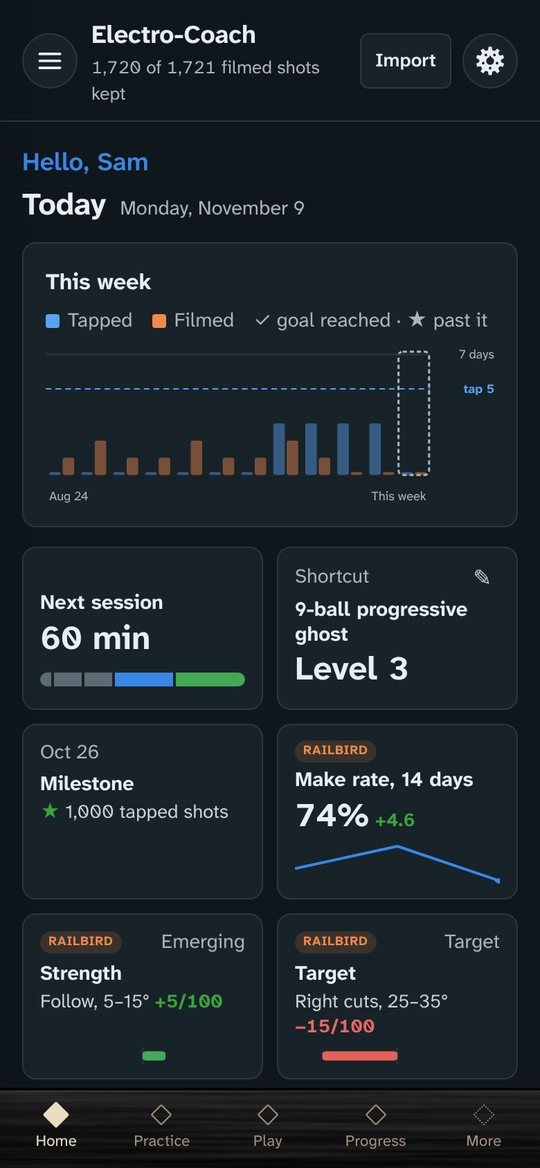
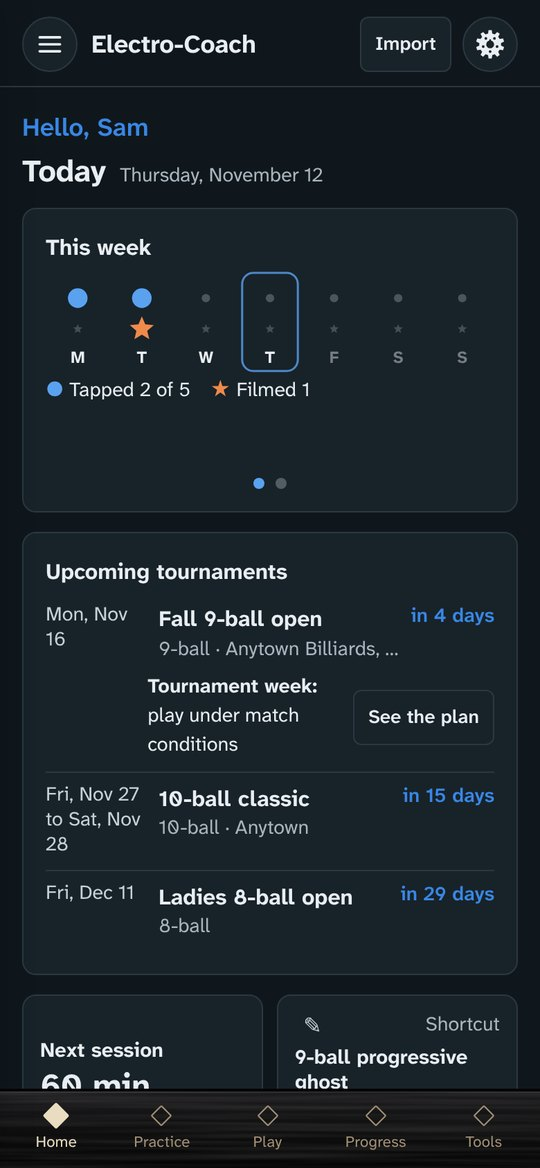
Website refresh: screenshots from 0.1.114 and the tournament week
Every screenshot is new, from 0.1.114 with demo data: Today with Upcoming tournaments, the plan, tapping, Progress grouped, Your stroke and its table, Drills, the tournament week, the heat map, the visualizer, the shot clock with the match score and the routine, and the share picture.

How it works gains a fifth step, Plan around your tournaments. The opening line, the drills and tools cards, the iPhone notes and the privacy card catch up with the app (Warm-up, the match score, levels on the evidence, the calendar on Android). The sitemap marks today's changes.

diff --git a/index.html b/index.html
@@ -20,12 +20,12 @@
 <meta property="og:image" content="https://electro-coach.com/images/og.jpg">
 <meta property="og:image:width" content="1200">
 <meta property="og:image:height" content="630">
-<meta property="og:image:alt" content="Electro-Coach: Practice with purpose. A drill’s tap screen and the Stroke check on a phone">
+<meta property="og:image:alt" content="Electro-Coach, a pool practice coach: the Warm-up plan for a tournament week and the Stroke check on a phone">
 <meta name="twitter:card" content="summary_large_image">
 <meta name="twitter:title" content="Electro-Coach: pool and billiards practice coach app">
 <meta name="twitter:description" content="Practice with purpose. Tap your shots; Electro-Coach reads your stroke, plans what to practice and shows whether you’re improving. Free, no account.">
 <meta name="twitter:image" content="https://electro-coach.com/images/og.jpg">
-<script type="application/ld+json">{"@context": "https://schema.org", "@type": "SoftwareApplication", "name": "Electro-Coach", "url": "https://electro-coach.com/", "applicationCategory": "SportsApplication", "operatingSystem": "Android, iOS (web app), Windows, macOS, Linux (web)", "description": "A pool and billiards practice coach: structured practice plans, drills you log with a tap, stroke feedback from drill results, a shot visualizer, a tournament shot clock, a pre-shot routine and progress tracking from Railbird shot data.", "image": "https://electro-coach.com/images/og.jpg", "screenshot": ["https://electro-coach.com/images/home.jpg", "https://electro-coach.com/images/tap.jpg", "https://electro-coach.com/images/stroke.jpg"], "offers": {"@type": "Offer", "price": "0", "priceCurrency": "USD"}, "author": {"@type": "Person", "name": "Lela Andrews"}, "downloadUrl": "https://github.com/lvandrews/Electro-Coach/releases/latest/download/electro-coach.apk", "featureList": ["Practice plans with block timers", "Pool drills logged with a tap", "Stroke feedback from drill results", "Shot visualizer: cut angle, ghost ball, contact point", "Progressive ghost run-out practice", "Tournament shot clock and straight pool scoring", "Pre-shot routine", "Progress, heat maps and shot model from Railbird data", "Practice journal"]}</script>
+<script type="application/ld+json">{"@context": "https://schema.org", "@type": "SoftwareApplication", "name": "Electro-Coach", "url": "https://electro-coach.com/", "applicationCategory": "SportsApplication", "operatingSystem": "Android, iOS (web app), Windows, macOS, Linux (web)", "description": "A pool and billiards practice coach: structured practice plans, drills you log with a tap, stroke feedback from drill results, a shot visualizer, a tournament shot clock, a pre-shot routine and progress tracking from Railbird shot data.", "image": "https://electro-coach.com/images/og.jpg", "screenshot": ["https://electro-coach.com/images/home.jpg", "https://electro-coach.com/images/tap.jpg", "https://electro-coach.com/images/stroke.jpg"], "offers": {"@type": "Offer", "price": "0", "priceCurrency": "USD"}, "author": {"@type": "Person", "name": "Lela Andrews"}, "downloadUrl": "https://github.com/lvandrews/Electro-Coach/releases/latest/download/electro-coach.apk", "featureList": ["Practice plans with block timers", "Pool drills logged with a tap", "Stroke feedback from drill results", "Shot visualizer: cut angle, ghost ball, contact point", "Progressive ghost run-out practice", "Tournament shot clock and straight pool scoring", "Pre-shot routine", "Progress, heat maps and shot model from Railbird data", "Practice journal", "Tournament calendar and tournament week", "Match score", "Warm-up"]}</script>
 <meta name="theme-color" content="#2c1d14">
 <link rel="icon" href="images/icon-192.png">
 <link rel="apple-touch-icon" href="images/apple-touch-icon.png">
@@ -50,7 +50,7 @@
     <div>
       <h1>Practice with purpose.</h1>
       <p class="tagline">A pool practice coach that keeps you honest.</p>
-      <p class="lede">Tap your shots as you practice. Electro-Coach reads your stroke from the results, tells you what to work on next and shows whether you’re improving. For every player, from beginner to expert.</p>
+      <p class="lede">Tap your shots as you practice. Electro-Coach reads your stroke from the results, tells you what to work on next, shows whether you’re improving and, in the Android app, plans your week around your tournaments. For every player, from beginner to expert.</p>
       <h2 class="start-h">Get started</h2>
       <ol class="start">
         <li>Download Electro-Coach for Android, iPhone or your computer.</li>
@@ -76,10 +76,11 @@
   <div class="wrap">
     <h2>How it works</h2>
     <div class="steps">
-      <div class="card step"><div class="ball b1"><span>1</span></div><h3>Tap as you play</h3><p>Each shot is one tap: made, missed left or right, what the cue ball did. It’s even easier than it sounds, and you never leave the table.</p><img src="images/tap.jpg" alt="A drill’s tap screen: 4 of 7 makes, with big buttons for where the cue ball went" width="540" height="1168" loading="lazy"></div>
-      <div class="card step"><div class="ball b2"><span>2</span></div><h3>Your stroke, checked</h3><p>Strong fundamentals win matches. Your taps add up: when misses lean one way, stop shots drift or draw dies at the rail, the Stroke check shows the pattern, how sure it is, the likely causes and a drill to work on it.</p><img src="images/stroke.jpg" alt="Stroke check: the cue ball gets scooped on draw shots, with the likely cause, the tip dropping through contact" width="540" height="1168" loading="lazy"></div>
+      <div class="card step"><div class="ball b1"><span>1</span></div><h3>Tap as you play</h3><p>Each shot is one tap: made, missed left or right, what the cue ball did. It’s even easier than it sounds, and you never leave the table.</p><img src="images/tap.jpg" alt="A drill’s tap screen: 5 of 7 makes, with big buttons for where the cue ball went" width="540" height="1168" loading="lazy"></div>
+      <div class="card step"><div class="ball b2"><span>2</span></div><h3>Your stroke, checked</h3><p>Strong fundamentals win matches. Your taps add up: when misses lean one way, stop shots drift or draw dies at the rail, the Stroke check shows the pattern, how sure it is, the likely causes and a drill to work on it. Your stroke as a table puts stop, follow and draw shots side by side.</p><img src="images/stroke.jpg" alt="Stroke check: the cue ball gets scooped on draw shots, with the likely cause, the tip dropping through contact" width="540" height="1168" loading="lazy"></div>
       <div class="card step"><div class="ball b3"><span>3</span></div><h3>A plan that fits your time</h3><p>Each 20–180 minute session has a warm-up, a stroke drill, a drill for the shots costing you the most and a game-like finish. It suggests drills that fill gaps in your data, so the picture keeps getting sharper.</p><img src="images/plan.jpg" alt="Practice plan: the next session, 60 minutes, with its warm-up, target and apply blocks" width="540" height="1168" loading="lazy"></div>
-      <div class="card step"><div class="ball b4"><span>4</span></div><h3>Am I improving?</h3><p>Your history over time, each point with a range that says how sure it is, so real progress shows and one bad night doesn’t fool you.</p><img src="images/progress.jpg" alt="Progress: tiles for your stroke, your results over time, and whether you’re improving" width="540" height="1168" loading="lazy"></div>
+      <div class="card step"><div class="ball b4"><span>4</span></div><h3>Am I improving?</h3><p>Your history over time, each point with a range that says how sure it is, so real progress shows and one bad night doesn’t fool you. Progress keeps what your taps show and what Railbird shows apart, with your practice time against your weekly goal and your drills’ levels.</p><img src="images/progress.jpg" alt="Progress: your stroke, then tiles from your taps and from Railbird" width="540" height="1168" loading="lazy"></div>
+      <div class="card step wide"><div class="ball b5"><span>5</span></div><h3>Plan around your tournaments</h3><p>Link the calendar that holds your pool events (Google, Outlook or Apple) and your tournaments show on Today, with the place and the game. From five days out, Warm-up has a plan that changes as the day gets closer: match conditions first, then sharpening, then your warm-up on the day. Afterwards, a one-minute debrief shapes the next one. In the Android app; your calendar link is only ever sent to your calendar’s own service.</p><div class="step-pair"><img src="images/home.jpg" alt="Today: the upcoming tournaments, the next one in 4 days with its tournament week" width="540" height="1168" loading="lazy"><img src="images/warmup.jpg" alt="Warm-up, four days before a 9-ball tournament: play under match conditions, with the ghost, Last Three, ten breaks and position work from last time" width="540" height="1168" loading="lazy"></div></div>
     </div>
 
     <div class="whytap">
@@ -100,11 +101,11 @@
   <div class="wrap">
     <h2>Practice with purpose</h2>
     <div class="grid">
-      <div class="card"><div class="ball b5"><span>5</span></div><h3>Progressive drills for every level</h3><p>Levels move up and down with your results, from beginner to expert. Every drill has a diagram and shows where to hit the cue ball.</p></div>
-      <div class="card"><div class="ball b6"><span>6</span></div><h3>Purposeful doesn’t mean boring</h3><p>Spend a few minutes a day reinforcing your stroke, then put it to work in game-like drills: the Progressive 9-ball ghost, the Progressive 8-ball ghost and 10-ball bowling. They track your break, where each rack ends and how often the money ball is the miss.</p></div>
-      <div class="card"><div class="ball b7"><span>7</span></div><h3>Statistics, not AI</h3><p>Every number is worked out on your phone from your own shots, the way a scientist would: each shot measured against its difficulty, and each result with a range that says how sure it is.</p></div>
-      <div class="card"><div class="ball b8"><span>8</span></div><h3>Your data stays on your device</h3><p>No account. What you enter stays on your device, and backups are files you keep. You own your phone: use it for good.</p></div>
-      <div class="card"><div class="ball b9"><span>9</span></div><h3>Even better with Railbird</h3><p>Add your Railbird shot data for heat maps, your best speeds and a shot-by-shot picture of your game. <a href="#railbird">More about Railbird</a></p></div>
+      <div class="card"><div class="ball b6"><span>6</span></div><h3>Progressive drills for every level</h3><p>Levels move up and down on the evidence of your results, so luck moves you less, from beginner to expert. Every drill has a diagram and shows where to hit the cue ball.</p></div>
+      <div class="card"><div class="ball b7"><span>7</span></div><h3>Purposeful doesn’t mean boring</h3><p>Spend a few minutes a day reinforcing your stroke, then put it to work in game-like drills: the Progressive 9-ball ghost, the Progressive 8-ball ghost, 10-ball bowling and Last Three. The ghosts and bowling track your break, where each rack ends and how often the money ball is the miss. With a tournament in your calendar (Android app), the ghost switches to its game: 8-ball, or 9-ball for 9- and 10-ball.</p></div>
+      <div class="card"><div class="ball b8"><span>8</span></div><h3>Statistics, not AI</h3><p>Every number is worked out on your phone from your own shots, the way a scientist would: each shot measured against its difficulty, and each result with a range that says how sure it is.</p></div>
+      <div class="card"><div class="ball b9"><span>9</span></div><h3>Your data stays on your device</h3><p>No account. What you enter stays on your device, and backups are files you keep. You own your phone: use it for good.</p></div>
+      <div class="card"><div class="ball b10"><span>10</span></div><h3>Even better with Railbird</h3><p>Add your Railbird shot data for heat maps, your best speeds and a shot-by-shot picture of your game. <a href="#railbird">More about Railbird</a></p></div>
     </div>
   </div>
 </section>
@@ -115,7 +116,8 @@
     <div class="grid tools">
       <div class="card"><h3>Practice journal</h3><p>Notes on practice, equipment and competition days, lined up with your numbers. Share a report with your coach, or a summary with an AI coach.</p></div>
       <div class="card"><h3>Pre-shot routine</h3><p>Written your way, fully editable and one tap away, with a home-screen widget on Android.</p></div>
-      <div class="card"><h3>Shot clock</h3><p>Competition quality, with extensions.</p></div>
+      <div class="card"><h3>Shot clock</h3><p>Competition quality, with extensions and the match score, and a match you can send to a friend’s Electro-Coach.</p></div>
+      <div class="card"><h3>Warm-up</h3><p>5, 10 or 15 minutes before a match, with a list you can make your own.</p></div>
       <div class="card"><h3>Straight pool scoring</h3><p>Under WPA or CSI rules.</p></div>
       <div class="card"><h3>Shot visualizer</h3><p>See a cut from behind the cue ball, with the fractional overlap, or lay it out from above with the ghost ball and the contact-point lines.</p></div>
     </div>
@@ -149,17 +151,19 @@
   <div class="wrap">
     <h2>A look inside</h2>
     <div class="gallery">
-      <figure><img src="images/home.jpg" alt="Home: this week’s practice, the next session and your strengths and targets" loading="lazy"><figcaption>Home</figcaption></figure>
+      <figure><img src="images/home.jpg" alt="Today: this week’s practice and your upcoming tournaments, with the tournament week" loading="lazy"><figcaption>Today</figcaption></figure>
       <figure><img src="images/plan.jpg" alt="Practice plan: the next session up front with its length and blocks" loading="lazy"><figcaption>Practice plan</figcaption></figure>
       <figure><img src="images/tap.jpg" alt="A drill’s tap screen, one tap a shot" loading="lazy"><figcaption>Tapping a drill</figcaption></figure>
       <figure><img src="images/setdone.jpg" alt="A finished set: makes, quality and where the cue ball went" loading="lazy"><figcaption>Set complete</figcaption></figure>
       <figure><img src="images/ghost.jpg" alt="Progressive 9-ball ghost: tap the balls that went in on the break" loading="lazy"><figcaption>Progressive ghost</figcaption></figure>
-      <figure><img src="images/progress.jpg" alt="Progress" loading="lazy"><figcaption>Progress</figcaption></figure>
-      <figure><img src="images/stroke.jpg" alt="Stroke check: scooped draw shots, with the likely cause and what to try" loading="lazy"><figcaption>Stroke check</figcaption></figure>
+      <figure><img src="images/progress.jpg" alt="Progress: what your taps show and what Railbird shows, in two groups" loading="lazy"><figcaption>Progress</figcaption></figure>
+      <figure><img src="images/stroketable.jpg" alt="Your stroke as a table: stop, follow and draw shots by misses, English, scoops and drift" loading="lazy"><figcaption>Your stroke as a table</figcaption></figure>
+      <figure><img src="images/drills.jpg" alt="Drills: each drill’s level, how you do now and the change" loading="lazy"><figcaption>Drills</figcaption></figure>
+      <figure><img src="images/warmup.jpg" alt="Warm-up with the tournament week: the plan four days out" loading="lazy"><figcaption>Tournament week</figcaption></figure>
       <figure><img src="images/table.jpg" alt="Table heat map: your chance of potting from each spot" loading="lazy"><figcaption>Heat map</figcaption></figure>
       <figure><img src="images/visualizer.jpg" alt="Shot visualizer: a half-ball cut seen from behind the cue ball" loading="lazy"><figcaption>Shot visualizer</figcaption></figure>
       <figure><img src="images/layout.jpg" alt="Shot visualizer: a shot laid out from above with the ghost ball and both paths" loading="lazy"><figcaption>Lay out a shot</figcaption></figure>
-      <figure><img src="images/clock.jpg" alt="Shot clock" loading="lazy"><figcaption>Shot clock</figcaption></figure>
+      <figure><img src="images/clock.jpg" alt="Shot clock with the match score" loading="lazy"><figcaption>Shot clock</figcaption></figure>
       <figure><img src="images/routine.jpg" alt="Pre-shot routine" loading="lazy"><figcaption>Pre-shot routine</figcaption></figure>
     </div>
   </div>
@@ -222,7 +226,7 @@
         </ol>
         <a class="btn primary" href="app/">Install on iPhone</a>
         <p class="note">You keep using your usual browser for everything else.</p>
-        <p class="note">The end of a timed practice block sounds only while the app is on screen: iPhone web apps can’t schedule alerts in the background. FargoRate search works in the Android app; on the web, enter your rating by hand.</p>
+        <p class="note">The end of a timed practice block sounds only while the app is on screen: iPhone web apps can’t schedule alerts in the background. FargoRate search works in the Android app; on the web, enter your rating by hand. The tournament calendar works in the Android app.</p>
       </div>
       <div class="card" id="computer">
         <h3>Computer</h3>
@@ -337,7 +341,7 @@
   <div class="wrap two">
     <div>
       <h2>Your data stays yours</h2>
-      <p class="sub">There’s no account. Everything you enter stays on your device, and backups are files you keep. Anonymous usage counts come with the free version (they’ll be optional in the paid version), never include anything you enter, and are never sold.</p>
+      <p class="sub">There’s no account. Everything you enter stays on your device, and backups are files you keep. Your calendar link stays on your phone, and is only used to read your calendar. Anonymous usage counts come with the free version (they’ll be optional in the paid version), never include anything you enter, and are never sold.</p>
       <p><a href="privacy.html">Privacy</a> · <a href="terms.html">Terms of use</a></p>
     </div>
     <div>

diff --git a/style.css b/style.css
@@ -144,6 +144,11 @@ footer a { color: var(--ink-2); }
 .step { display: flex; flex-direction: column; }
 .step p { flex: 1; }
 .step img { width: 100%; max-width: 240px; height: auto; margin: 14px auto 0; border-radius: 14px; border: 2px solid var(--line); }
+/* The fifth step (12 Nov 2026, the tournament week) spans the row, with two pictures side by side. */
+.step.wide { grid-column: 1 / -1; }
+.step.wide p { max-width: 75ch; }
+.step-pair { display: flex; gap: 16px; justify-content: center; flex-wrap: wrap; }
+.step-pair img { margin: 14px 0 0; }
 .whytap { margin-top: 18px; background: var(--card-2); border-left: 4px solid var(--accent); border-radius: 8px; padding: 16px 18px; color: var(--ink-2); }
 .whytap h3 { margin: 0 0 6px; color: var(--ink); font-size: 1.1rem; }
 .whytap .lead { color: var(--ink); font-weight: 600; margin: 0 0 6px; }
